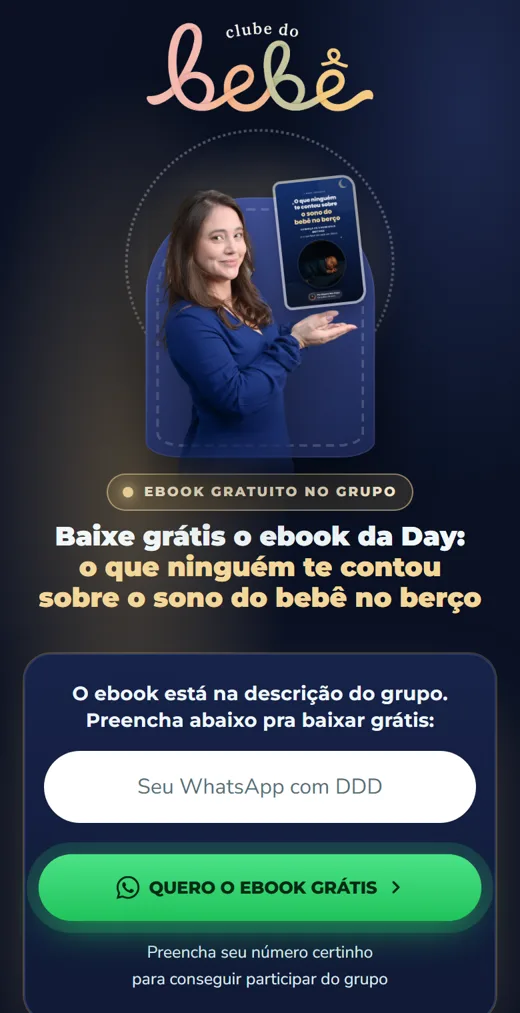
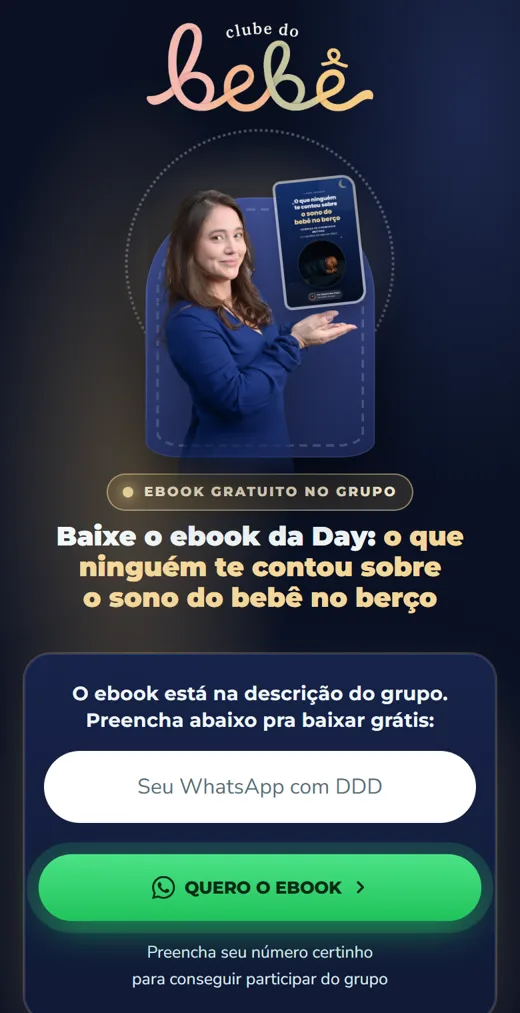
black 2026: ebook do sono sem gratis no titulo e no botao

Changed region(s): [[0.0615, 0.5202, 0.9231, 0.612], [0.2154, 0.8569, 0.7692, 0.8875]]

diff --git a/2026-10-26-black-2026/clube-do-bebe/sono-ebook/index.html b/2026-10-26-black-2026/clube-do-bebe/sono-ebook/index.html
@@ -270,14 +270,14 @@ footer{padding:26px 18px calc(26px + env(safe-area-inset-bottom));text-align:cen
     </div>
     <div class="hero-txt">
       <span class="tag-aula">Ebook gratuito no grupo</span>
-      <h1>Baixe grátis o ebook da Day: <span class="mag">o que ninguém te contou sobre o sono do bebê no berço</span></h1>
+      <h1>Baixe o ebook da Day: <span class="mag">o que ninguém te contou sobre o sono do bebê no berço</span></h1>
       <p class="sub">Os 5 principais motivos do bebê não dormir no berço, e o que fazer em cada um. O ebook fica na descrição do grupo do Clube do Bebê, e lá dentro você ainda assiste à aula de autonomia de sono da Day.</p>
       <form class="form" id="cadastro" data-lead="clube-do-bebe" data-versao="sono-ebook" data-destino="../entrando-sono-ebook/" novalidate>
         <span class="data">O ebook está na descrição do grupo. Preencha abaixo pra baixar grátis:</span>
         <input class="hp" name="site" tabindex="-1" autocomplete="off" aria-hidden="true">
         <input id="whats1" name="whatsapp" placeholder="Seu WhatsApp com DDD" inputmode="tel" autocomplete="tel-national" required aria-label="Seu WhatsApp com DDD">
         <span class="erro" role="alert"></span>
-        <button type="submit"><svg viewBox="0 0 24 24" fill="currentColor" aria-hidden="true"><path d="M17.47 14.38c-.3-.15-1.76-.87-2.03-.97-.27-.1-.47-.15-.67.15-.2.3-.77.97-.94 1.17-.17.2-.35.22-.64.07-.3-.15-1.26-.46-2.4-1.48-.89-.79-1.49-1.77-1.66-2.07-.17-.3-.02-.46.13-.6.13-.13.3-.35.45-.52.15-.17.2-.3.3-.5.1-.2.05-.37-.03-.52-.07-.15-.67-1.61-.92-2.2-.24-.58-.49-.5-.67-.51h-.57c-.2 0-.52.07-.79.37-.27.3-1.04 1.02-1.04 2.48 0 1.46 1.07 2.88 1.21 3.07.15.2 2.1 3.2 5.08 4.49.71.31 1.26.49 1.69.63.71.22 1.36.19 1.87.12.57-.09 1.76-.72 2.01-1.41.25-.69.25-1.29.17-1.41-.07-.13-.27-.2-.57-.35M12.05 21.79h-.01a9.9 9.9 0 0 1-5.03-1.38l-.36-.21-3.74.98 1-3.65-.24-.37a9.86 9.86 0 0 1-1.51-5.26c0-5.45 4.44-9.88 9.9-9.88 2.64 0 5.12 1.03 6.99 2.9a9.83 9.83 0 0 1 2.89 6.99c0 5.45-4.44 9.88-9.89 9.88m8.41-18.29A11.82 11.82 0 0 0 12.05 0C5.5 0 .16 5.34.16 11.89c0 2.1.55 4.14 1.59 5.95L.06 24l6.3-1.65a11.88 11.88 0 0 0 5.68 1.45h.01c6.55 0 11.89-5.34 11.89-11.89 0-3.18-1.24-6.16-3.48-8.41"/></svg><span>Quero o ebook grátis</span><svg class="seta" viewBox="0 0 24 24" fill="none" stroke="currentColor" stroke-width="3.2" stroke-linecap="round" stroke-linejoin="round" aria-hidden="true"><path d="m9 5 7 7-7 7"/></svg></button>
+        <button type="submit"><svg viewBox="0 0 24 24" fill="currentColor" aria-hidden="true"><path d="M17.47 14.38c-.3-.15-1.76-.87-2.03-.97-.27-.1-.47-.15-.67.15-.2.3-.77.97-.94 1.17-.17.2-.35.22-.64.07-.3-.15-1.26-.46-2.4-1.48-.89-.79-1.49-1.77-1.66-2.07-.17-.3-.02-.46.13-.6.13-.13.3-.35.45-.52.15-.17.2-.3.3-.5.1-.2.05-.37-.03-.52-.07-.15-.67-1.61-.92-2.2-.24-.58-.49-.5-.67-.51h-.57c-.2 0-.52.07-.79.37-.27.3-1.04 1.02-1.04 2.48 0 1.46 1.07 2.88 1.21 3.07.15.2 2.1 3.2 5.08 4.49.71.31 1.26.49 1.69.63.71.22 1.36.19 1.87.12.57-.09 1.76-.72 2.01-1.41.25-.69.25-1.29.17-1.41-.07-.13-.27-.2-.57-.35M12.05 21.79h-.01a9.9 9.9 0 0 1-5.03-1.38l-.36-.21-3.74.98 1-3.65-.24-.37a9.86 9.86 0 0 1-1.51-5.26c0-5.45 4.44-9.88 9.9-9.88 2.64 0 5.12 1.03 6.99 2.9a9.83 9.83 0 0 1 2.89 6.99c0 5.45-4.44 9.88-9.89 9.88m8.41-18.29A11.82 11.82 0 0 0 12.05 0C5.5 0 .16 5.34.16 11.89c0 2.1.55 4.14 1.59 5.95L.06 24l6.3-1.65a11.88 11.88 0 0 0 5.68 1.45h.01c6.55 0 11.89-5.34 11.89-11.89 0-3.18-1.24-6.16-3.48-8.41"/></svg><span>Quero o ebook</span><svg class="seta" viewBox="0 0 24 24" fill="none" stroke="currentColor" stroke-width="3.2" stroke-linecap="round" stroke-linejoin="round" aria-hidden="true"><path d="m9 5 7 7-7 7"/></svg></button>
         <span class="micro">Preencha seu número certinho para conseguir participar do grupo</span>
       </form>
     </div>
@@ -353,7 +353,7 @@ footer{padding:26px 18px calc(26px + env(safe-area-inset-bottom));text-align:cen
       <input class="hp" name="site" tabindex="-1" autocomplete="off" aria-hidden="true">
       <input id="whats2" name="whatsapp" placeholder="Seu WhatsApp com DDD" inputmode="tel" autocomplete="tel-national" required aria-label="Seu WhatsApp com DDD">
       <span class="erro" role="alert"></span>
-      <button type="submit"><svg viewBox="0 0 24 24" fill="currentColor" aria-hidden="true"><path d="M17.47 14.38c-.3-.15-1.76-.87-2.03-.97-.27-.1-.47-.15-.67.15-.2.3-.77.97-.94 1.17-.17.2-.35.22-.64.07-.3-.15-1.26-.46-2.4-1.48-.89-.79-1.49-1.77-1.66-2.07-.17-.3-.02-.46.13-.6.13-.13.3-.35.45-.52.15-.17.2-.3.3-.5.1-.2.05-.37-.03-.52-.07-.15-.67-1.61-.92-2.2-.24-.58-.49-.5-.67-.51h-.57c-.2 0-.52.07-.79.37-.27.3-1.04 1.02-1.04 2.48 0 1.46 1.07 2.88 1.21 3.07.15.2 2.1 3.2 5.08 4.49.71.31 1.26.49 1.69.63.71.22 1.36.19 1.87.12.57-.09 1.76-.72 2.01-1.41.25-.69.25-1.29.17-1.41-.07-.13-.27-.2-.57-.35M12.05 21.79h-.01a9.9 9.9 0 0 1-5.03-1.38l-.36-.21-3.74.98 1-3.65-.24-.37a9.86 9.86 0 0 1-1.51-5.26c0-5.45 4.44-9.88 9.9-9.88 2.64 0 5.12 1.03 6.99 2.9a9.83 9.83 0 0 1 2.89 6.99c0 5.45-4.44 9.88-9.89 9.88m8.41-18.29A11.82 11.82 0 0 0 12.05 0C5.5 0 .16 5.34.16 11.89c0 2.1.55 4.14 1.59 5.95L.06 24l6.3-1.65a11.88 11.88 0 0 0 5.68 1.45h.01c6.55 0 11.89-5.34 11.89-11.89 0-3.18-1.24-6.16-3.48-8.41"/></svg><span>Quero o ebook grátis</span><svg class="seta" viewBox="0 0 24 24" fill="none" stroke="currentColor" stroke-width="3.2" stroke-linecap="round" stroke-linejoin="round" aria-hidden="true"><path d="m9 5 7 7-7 7"/></svg></button>
+      <button type="submit"><svg viewBox="0 0 24 24" fill="currentColor" aria-hidden="true"><path d="M17.47 14.38c-.3-.15-1.76-.87-2.03-.97-.27-.1-.47-.15-.67.15-.2.3-.77.97-.94 1.17-.17.2-.35.22-.64.07-.3-.15-1.26-.46-2.4-1.48-.89-.79-1.49-1.77-1.66-2.07-.17-.3-.02-.46.13-.6.13-.13.3-.35.45-.52.15-.17.2-.3.3-.5.1-.2.05-.37-.03-.52-.07-.15-.67-1.61-.92-2.2-.24-.58-.49-.5-.67-.51h-.57c-.2 0-.52.07-.79.37-.27.3-1.04 1.02-1.04 2.48 0 1.46 1.07 2.88 1.21 3.07.15.2 2.1 3.2 5.08 4.49.71.31 1.26.49 1.69.63.71.22 1.36.19 1.87.12.57-.09 1.76-.72 2.01-1.41.25-.69.25-1.29.17-1.41-.07-.13-.27-.2-.57-.35M12.05 21.79h-.01a9.9 9.9 0 0 1-5.03-1.38l-.36-.21-3.74.98 1-3.65-.24-.37a9.86 9.86 0 0 1-1.51-5.26c0-5.45 4.44-9.88 9.9-9.88 2.64 0 5.12 1.03 6.99 2.9a9.83 9.83 0 0 1 2.89 6.99c0 5.45-4.44 9.88-9.89 9.88m8.41-18.29A11.82 11.82 0 0 0 12.05 0C5.5 0 .16 5.34.16 11.89c0 2.1.55 4.14 1.59 5.95L.06 24l6.3-1.65a11.88 11.88 0 0 0 5.68 1.45h.01c6.55 0 11.89-5.34 11.89-11.89 0-3.18-1.24-6.16-3.48-8.41"/></svg><span>Quero o ebook</span><svg class="seta" viewBox="0 0 24 24" fill="none" stroke="currentColor" stroke-width="3.2" stroke-linecap="round" stroke-linejoin="round" aria-hidden="true"><path d="m9 5 7 7-7 7"/></svg></button>
     </form>
   </div>
 </section>
